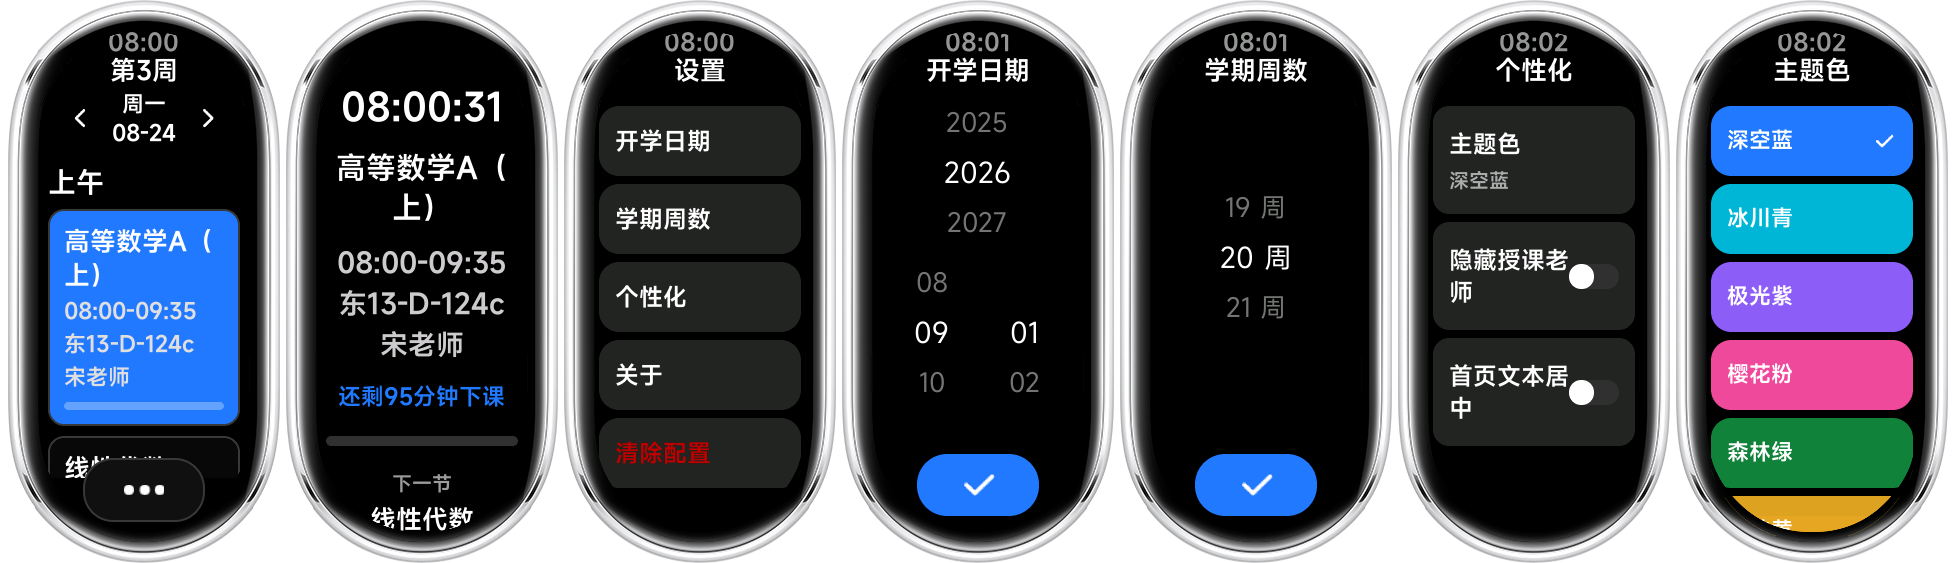
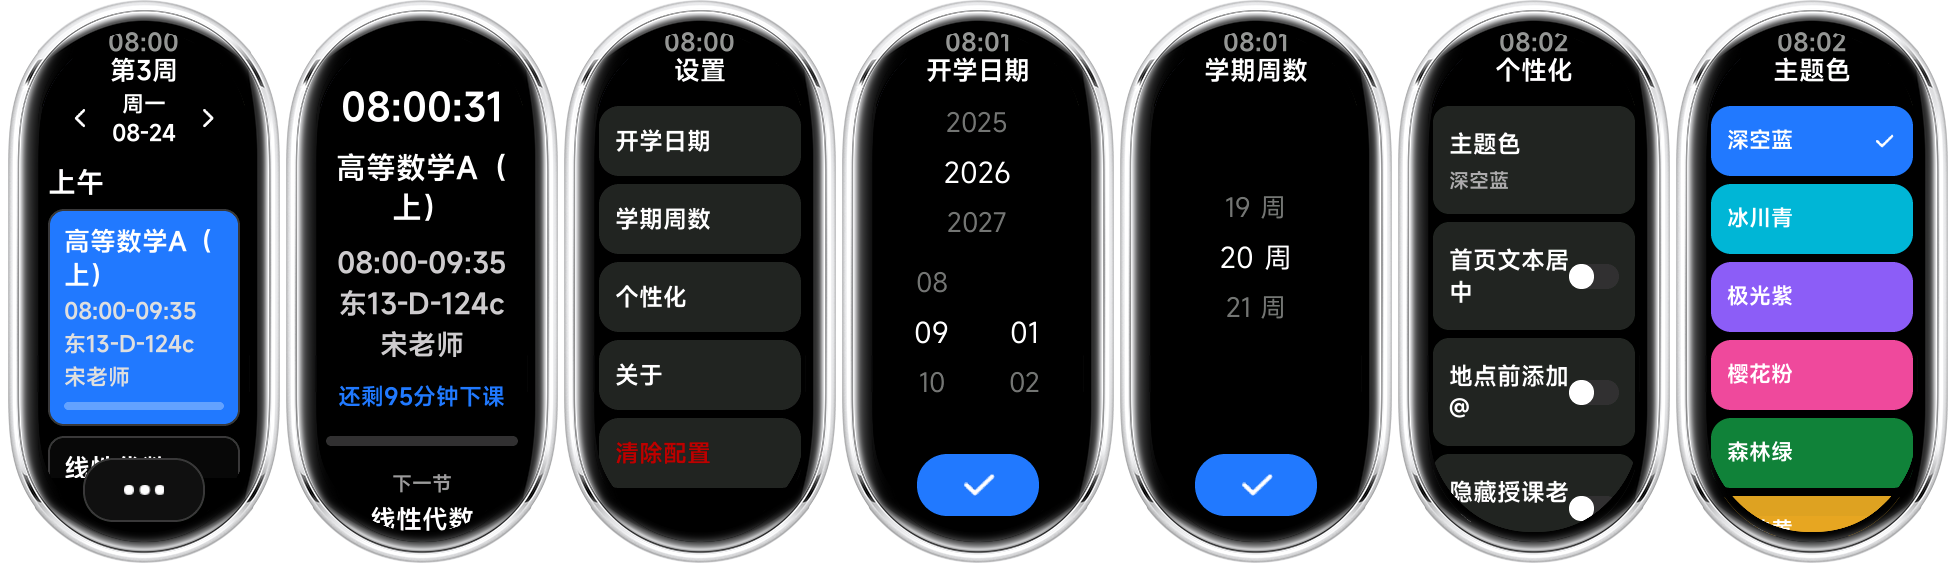
release: v2.0.1

diff --git a/README.md b/README.md
@@ -18,7 +18,7 @@
 - 点击课程卡片进入全屏显示
 - 显示上/下课倒计时和进度条
 - 上课时详情页显示下一节课课程和教室
-- 支持隐藏授课老师、首页文本居中等偏好
+- 支持首页文本居中、地点前添加@、隐藏授课老师等偏好
 - 支持多种预设主题色
 - 支持导入[拾光课程表](https://sgschedule.jursin.top/)、[WakeUp 课程表](https://www.wakeup.fun/)和 [CSES](https://cloud.smart-teach.cn/) 的配置文件
 
